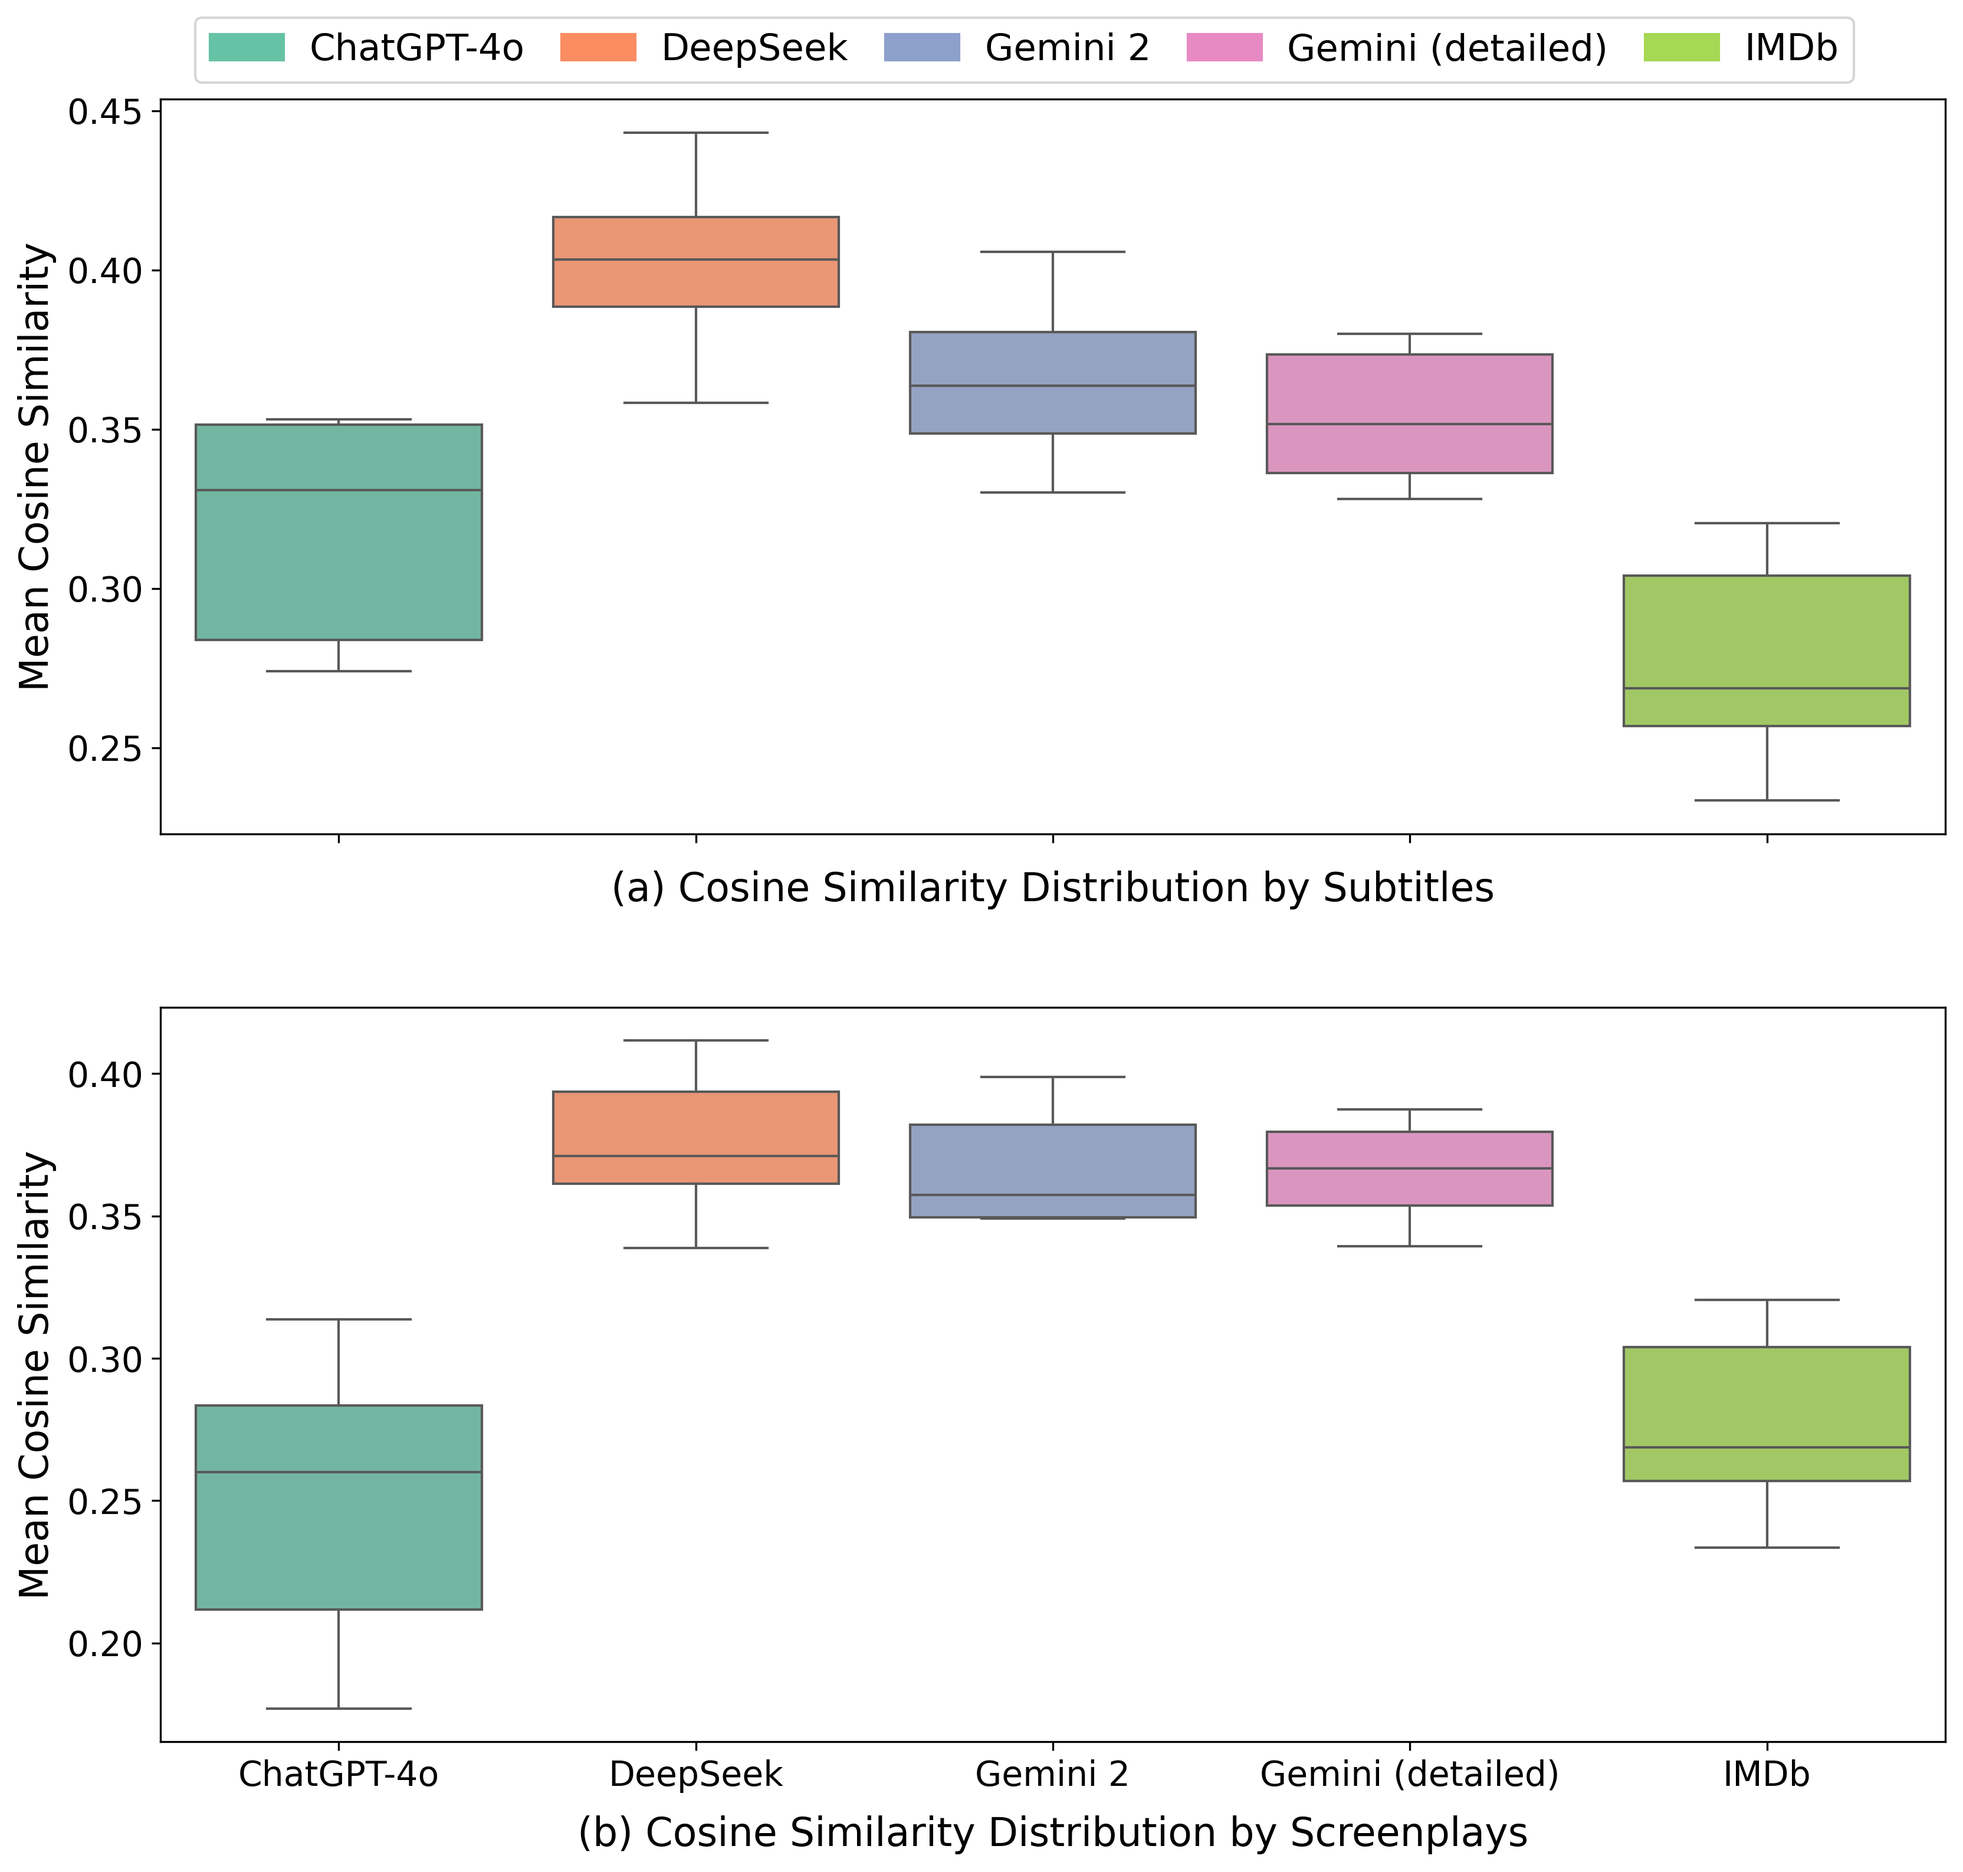
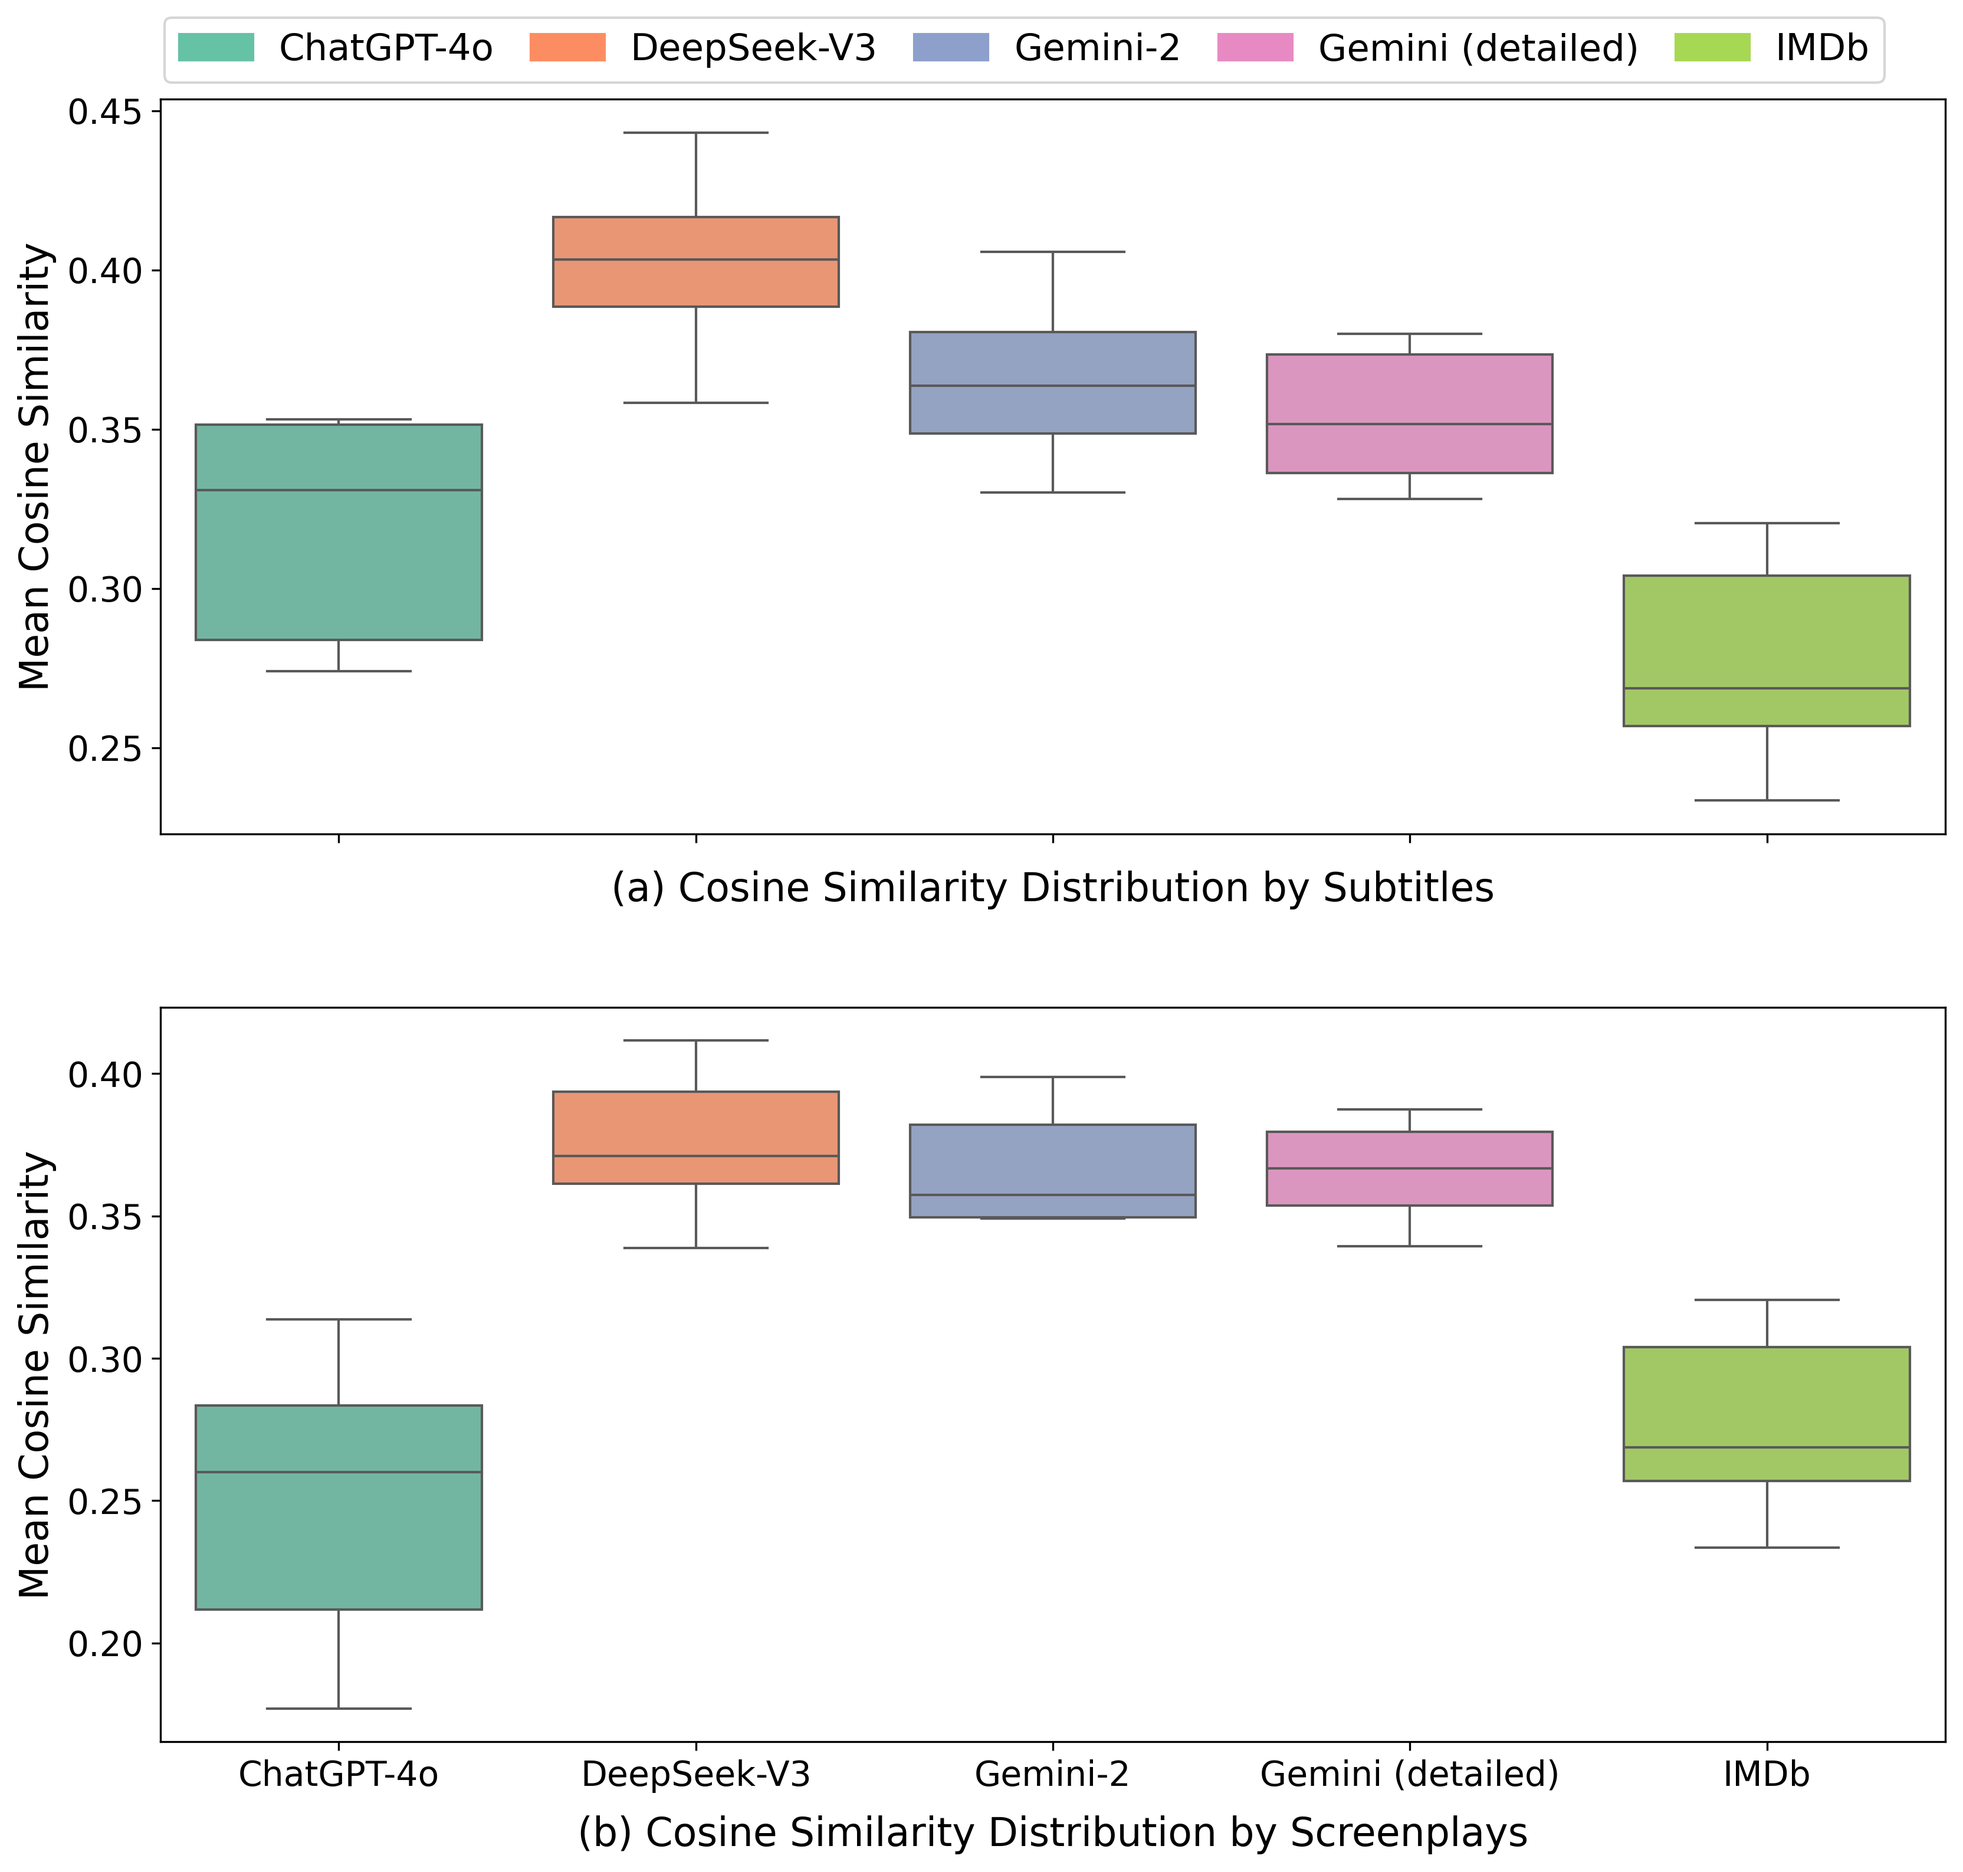
update AI model names

Changed region(s): [[0.0938, 0.0, 0.9688, 0.0312], [0.3125, 0.9357, 0.4062, 0.9669], [0.5312, 0.9357, 0.5625, 0.9669]]

diff --git a/Visualization/cosine_similarity_boxplot.py b/Visualization/cosine_similarity_boxplot.py
@@ -5,11 +5,11 @@ import matplotlib.patches as mpatches
 
 # --- Load similarity summary data ---
 files = {
-    "ChatGPT-4o": "../cosine_similarity_and_other_tests/cosine_similarity_results_chatgpt.csv",
-    "DeepSeek": "../cosine_similarity_and_other_tests/cosine_similarity_results_deepseek.csv",
-    "Gemini 2": "../cosine_similarity_and_other_tests/cosine_similarity_results_gemini.csv",
-    "Gemini (detailed)" : "../cosine_similarity_and_other_tests/cosine_similarity_results_gemini_detailed_context.csv",
-    "IMDb": "../cosine_similarity_and_other_tests/within_imdb_similarity_results.csv"
+    "ChatGPT-4o": "../Cosine Similarity/cosine_similarity_results_chatgpt.csv",
+    "DeepSeek-V3": "../Cosine Similarity/cosine_similarity_results_deepseek.csv",
+    "Gemini-2": "../Cosine Similarity/cosine_similarity_results_gemini.csv",
+    "Gemini (detailed)" : "../Cosine Similarity/cosine_similarity_results_gemini_detailed_context.csv",
+    "IMDb": "../Cosine Similarity/within_imdb_similarity_results.csv"
 }
 
 dfs = {name: pd.read_csv(path) for name, path in files.items()}
@@ -30,8 +30,8 @@ imdb_df = pd.read_csv("../Cosine Similarity/within_imdb_similarity_results.csv")
 
 ai_df["File"] = ai_df["File"].replace({
     "aireviews_chatgpt_screenplays.csv": "ChatGPT-4o",
-    "aireviews_deepseek_screenplays.csv": "DeepSeek",
-    "aireviews_gemini_screenplays.csv": "Gemini 2",
+    "aireviews_deepseek_screenplays.csv": "DeepSeek-V3",
+    "aireviews_gemini_screenplays.csv": "Gemini-2",
     "aireviews_gemini_screenplays_context_variation.csv": "Gemini (detailed)"
 })
 ai_df.rename(columns={"File": "Source"}, inplace=True)
@@ -45,7 +45,7 @@ screenplay_df = pd.concat([
 ], ignore_index=True)
 
 # --- Create combined boxplots ---
-sources = ["ChatGPT-4o", "DeepSeek", "Gemini 2", "Gemini (detailed)", "IMDb"]
+sources = ["ChatGPT-4o", "DeepSeek-V3", "Gemini-2", "Gemini (detailed)", "IMDb"]
 colors = sns.color_palette("Set2", n_colors=len(sources))
 palette_dict = dict(zip(sources, colors))
 
